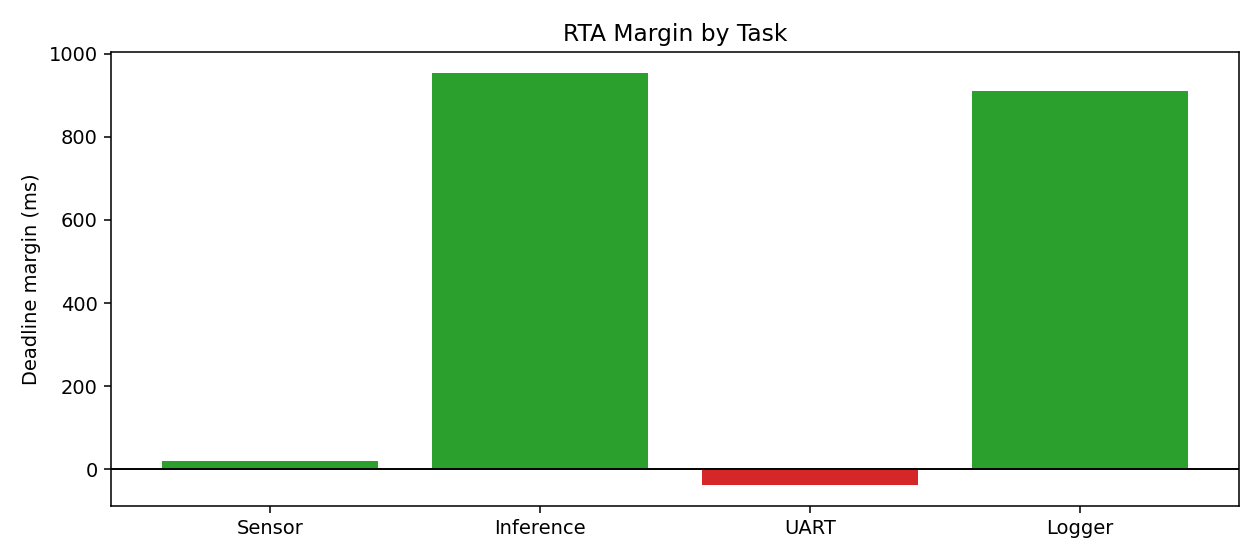
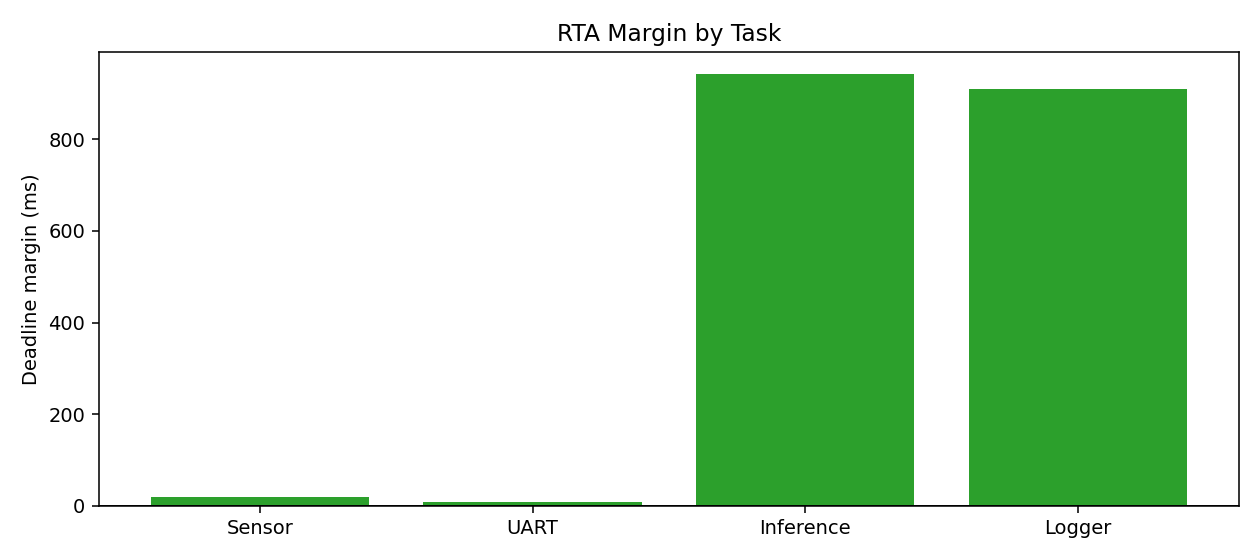
edits to fix firmware priorities for RM schedulability

Changed region(s): [[0.031, 0.0911, 0.9595, 0.9714], [0.4333, 0.0304, 0.619, 0.0911], [0.7738, 0.1518, 0.9286, 0.1821]]

diff --git a/firmware/uart_task.c b/firmware/uart_task.c
@@ -37,6 +37,8 @@
 #include "priorities.h"
 
 #define UART_TASK_STACK     256
+#define UART_REPLAY_ENABLE  0   // 0: production/RM runs, 1: host replay injection mode
+#define UART_HEARTBEAT_ENABLE 0 // 0: clean RM timing, 1: periodic liveness print every 5 s
 
 #define DWT_CYCCNT  (*((volatile uint32_t *)0xE0001004))
 #define DWT_SNAPSHOT()  (DWT_CYCCNT)
@@ -70,12 +72,14 @@ static void UARTTimingRecord(uint32_t cycles)
     taskEXIT_CRITICAL();
 }
 
+#if UART_REPLAY_ENABLE
 #define REPLAY_START0   0xAA
 #define REPLAY_START1   0x55
 #define REPLAY_END      0xBB
 #define REPLAY_HEADER   4                                   // 2 start + 2 idx
 #define REPLAY_PAYLOAD  (WINDOW_SIZE * SENSOR_AXES * 2)    // 600 bytes
 #define REPLAY_FRAME    (REPLAY_HEADER + REPLAY_PAYLOAD + 1 + 1) // 606 bytes
+#endif
 
 extern SemaphoreHandle_t g_pUARTSemaphore;
 
@@ -84,6 +88,7 @@ extern SemaphoreHandle_t g_pUARTSemaphore;
 // UARTStdioConfig takes over UART0 for printf but the underlying RX FIFO
 // is still readable directly. Blocks in 1 ms slices to stay RTOS-friendly.
 //*****************************************************************************
+#if UART_REPLAY_ENABLE
 static uint8_t read_byte(void)
 {
     while (UARTCharsAvail(UART0_BASE) == false)
@@ -146,24 +151,33 @@ static bool try_parse_replay_frame(SensorWindow_t *pWindow)
 
     return true;
 }
+#endif
 
 //*****************************************************************************
 // UARTTask
 //*****************************************************************************
 static void UARTTask(void *pvParameters)
 {
-    SensorWindow_t  replay_window;
+#if UART_REPLAY_ENABLE || UART_HEARTBEAT_ENABLE
     uint32_t        replay_count = 0;
+#endif
+#if UART_HEARTBEAT_ENABLE
     uint32_t        heartbeat_count = 0;
+    TickType_t      xLastHeartbeat = xTaskGetTickCount();
+#endif
+#if UART_REPLAY_ENABLE
+    SensorWindow_t  replay_window;
+#endif
     uint32_t        t0;
     uint32_t        t1;
-    TickType_t      xLastHeartbeat = xTaskGetTickCount();
 
     while (1)
     {
+        vTaskDelay(pdMS_TO_TICKS(10));  // yield; 10 ms RX poll granularity
         t0 = DWT_SNAPSHOT();
 
-        // --- Heartbeat every 5 seconds ---
+        // --- Optional heartbeat every 5 seconds ---
+    #if UART_HEARTBEAT_ENABLE
         if ((xTaskGetTickCount() - xLastHeartbeat) >= pdMS_TO_TICKS(5000))
         {
             xLastHeartbeat = xTaskGetTickCount();
@@ -172,8 +186,10 @@ static void UARTTask(void *pvParameters)
                        heartbeat_count++, replay_count);
             xSemaphoreGive(g_pUARTSemaphore);
         }
+    #endif
 
-        // --- Non-blocking RX poll for replay frames ---
+        // --- Optional replay path (disabled for production WCET/RM campaigns) ---
+    #if UART_REPLAY_ENABLE
         if (UARTCharsAvail(UART0_BASE))
         {
             uint8_t b = (uint8_t)UARTCharGetNonBlocking(UART0_BASE);
@@ -205,11 +221,10 @@ static void UARTTask(void *pvParameters)
                 }
             }
         }
+#endif
 
         t1 = DWT_SNAPSHOT();
         UARTTimingRecord(t1 - t0);
-
-        vTaskDelay(pdMS_TO_TICKS(10));  // yield; 10 ms RX poll granularity
     }
 }
 

diff --git a/analysis/build_task_set_from_log.py b/analysis/build_task_set_from_log.py
@@ -82,6 +82,11 @@ def parse_args() -> argparse.Namespace:
     p.add_argument("--sensor-period-ms", type=float, default=20.0, help="Sensor task period")
     p.add_argument("--uart-period-ms", type=float, default=10.0, help="UART task loop period")
     p.add_argument("--window-size", type=int, default=50, help="Samples per inference window")
+    p.add_argument(
+        "--allow-uart-overrun",
+        action="store_true",
+        help="Allow emitting a task set even when measured UART ci_ms exceeds uart-period-ms",
+    )
     return p.parse_args()
 
 
@@ -113,14 +118,23 @@ def main() -> int:
     uart_ci_ms = cycles_to_ms(task["uart_max"], args.cpu_hz)
     logger_ci_ms = cycles_to_ms(task["logger_max"], args.cpu_hz)
 
+    if (uart_ci_ms > uart_period) and (not args.allow_uart_overrun):
+        print("[error] measured UART ci_ms exceeds configured UART period")
+        print(f"        uart_ci_ms={uart_ci_ms:.3f} ms, uart_period_ms={uart_period:.3f} ms")
+        print("        This usually means replay/streaming work was captured in UART timing.")
+        print("        For RM periodic analysis, rebuild firmware with replay path disabled")
+        print("        or rerun with a UART period that matches the measured operating mode.")
+        print("        If you intentionally want this task set, rerun with --allow-uart-overrun.")
+        return 3
+
     out = Path(args.out)
     with out.open("w", encoding="utf-8", newline="\n") as f:
         f.write("task,priority,period_ms,deadline_ms,ci_ms,ci_cycles,ci_source\n")
         # Script convention: lower number = higher priority.
         # Keep this aligned to current firmware urgency order.
-        f.write(f"Sensor,1,{sensor_period:.3f},{sensor_period:.3f},{sensor_ci_ms:.3f},,measured.task_csv_max\n")
-        f.write(f"Inference,2,{infer_period:.3f},{infer_period:.3f},,,from_wcet\n")
-        f.write(f"UART,3,{uart_period:.3f},{uart_period:.3f},{uart_ci_ms:.3f},,measured.task_csv_max\n")
+        f.write(f"Sensor,2,{sensor_period:.3f},{sensor_period:.3f},{sensor_ci_ms:.3f},,measured.task_csv_max\n")
+        f.write(f"UART,1,{uart_period:.3f},{uart_period:.3f},{uart_ci_ms:.3f},,measured.task_csv_max\n")
+        f.write(f"Inference,3,{infer_period:.3f},{infer_period:.3f},,,from_wcet\n")
         f.write(f"Logger,4,{logger_period:.3f},{logger_period:.3f},{logger_ci_ms:.3f},,measured.task_csv_max\n")
 
     print(f"[ok] wrote {out}")

diff --git a/firmware/priorities.h b/firmware/priorities.h
@@ -9,9 +9,9 @@
 #define __PRIORITIES_H__
 
 #define PRIORITY_LOGGER_TASK     1   // Lowest  - idle-time profiling
-#define PRIORITY_UART_TASK       2   // Low     - TX log output + RX replay
-#define PRIORITY_INFERENCE_TASK  3   // Medium  - runs when window is ready
-#define PRIORITY_SENSOR_TASK     4   // Highest - must not miss samples
+#define PRIORITY_UART_TASK       4   // Highest - must not miss samples
+#define PRIORITY_INFERENCE_TASK  2   // Low     - TX log output + RX replay
+#define PRIORITY_SENSOR_TASK     3   // Medium  - runs when window is ready
 
 /* Backward compatibility for legacy demo tasks still in the build. */
 #define PRIORITY_LED_TASK        PRIORITY_UART_TASK

diff --git a/analysis/rm_workflow.md b/analysis/rm_workflow.md
@@ -7,6 +7,9 @@
 - Inference task release period is approximately:
   - T_infer = WINDOW_SIZE * SAMPLE_PERIOD_MS = 50 * 20 ms = 1000 ms.
 - WCET timing source is DWT cycle counter around inference compute block.
+- For production RM campaigns, build firmware with UART replay injection disabled
+  and UART heartbeat logging disabled so UART C_i reflects periodic service work
+  rather than host-stream replay bursts or infrequent long UART prints.
 
 ## 2) What the firmware now reports
 
@@ -106,3 +109,7 @@ If `Inference` row omits `ci_ms` and `ci_cycles`, the tool injects C_i from WCET
 python analysis/build_task_set_from_log.py --log wcet_run1.log --out task_set_measured.csv
 python analysis/wcet_rm_report.py --log wcet_run1.log --task-csv task_set_measured.csv --ci bound
 ```
+
+If the builder reports `UART ci_ms exceeds uart period`, your log likely captured
+replay/streaming behavior. For strict periodic RM modeling, disable replay and rerun.
+Use `--allow-uart-overrun` only when intentionally modeling that heavier mode.
